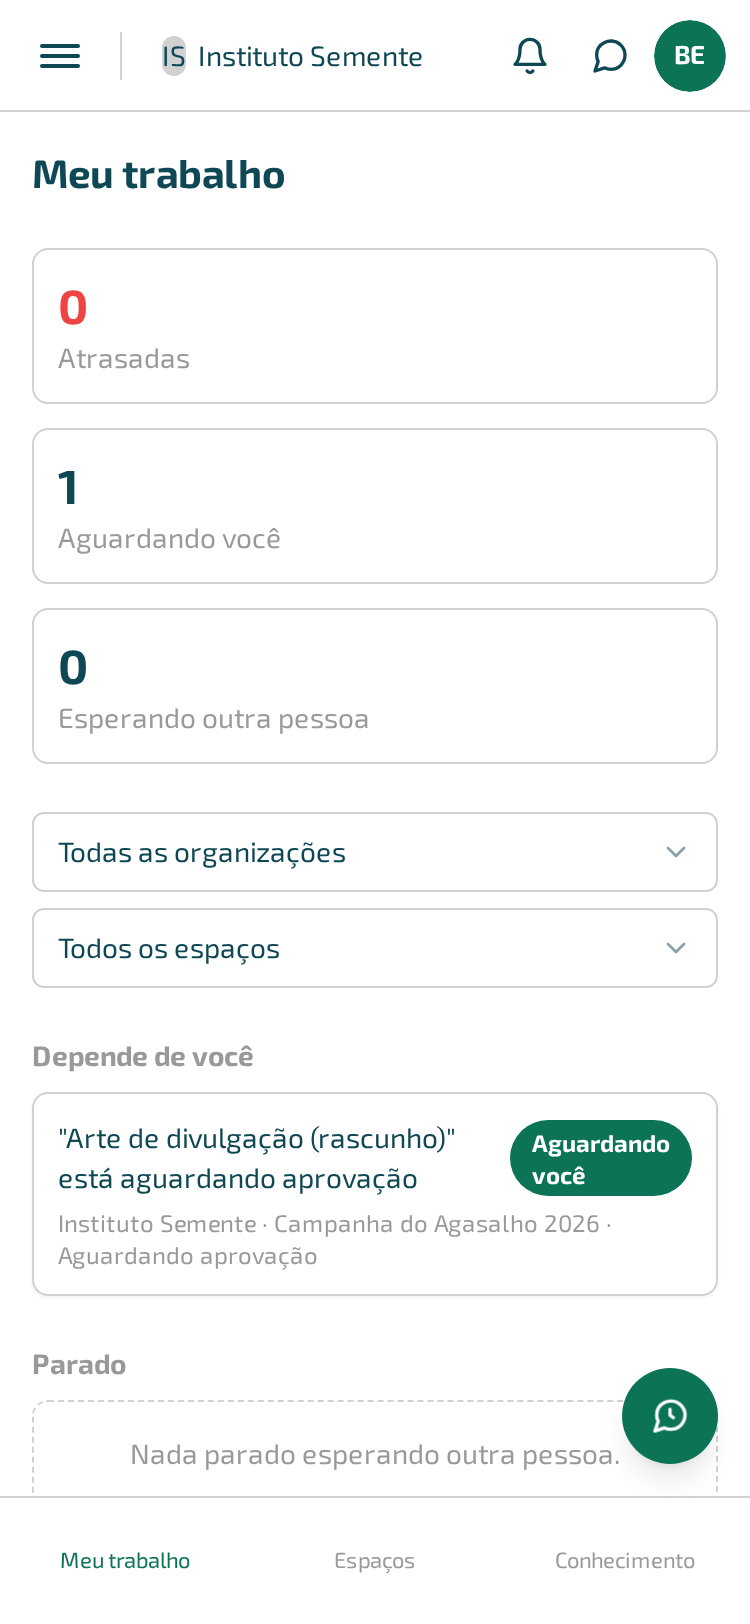
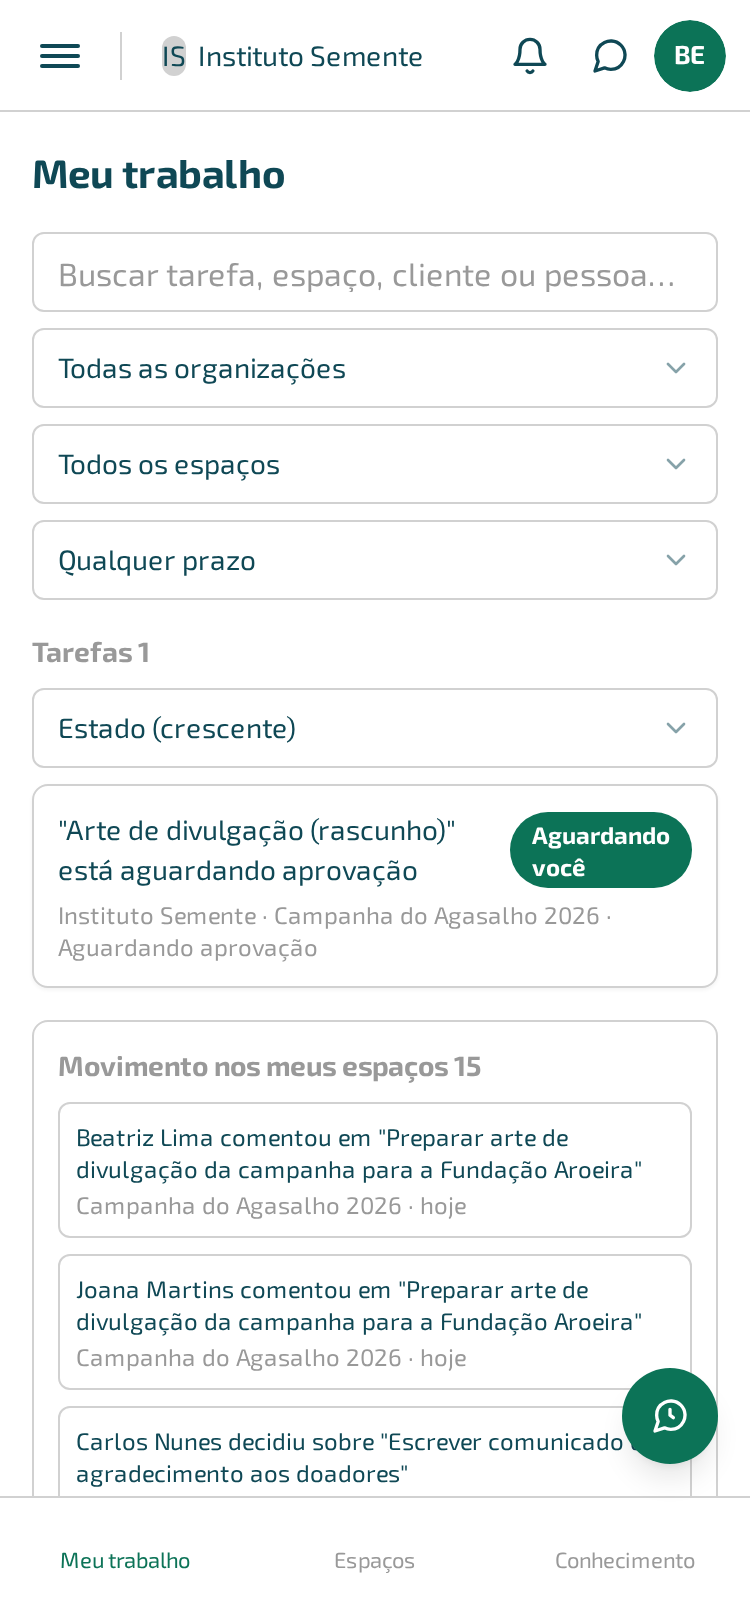
docs(manual): capturas da 0.16.0, com a busca de Meu trabalho

diff --git a/trabalho/meu-trabalho.md b/trabalho/meu-trabalho.md
@@ -16,7 +16,12 @@ outra organização é que o Realiza troca para ela.
 
 No menu, é a tela que abre com o título **"Meu trabalho"**.
 
-<!-- CAPTURA: rota=/painel | o-que-mostrar=no desktop, tela completa com o campo de busca vazio, os três filtros ("Organização", "Espaço", "Prazo") acima da lista, a coluna "Tarefas" à esquerda com pelo menos três linhas mostrando as três tags de estado ("Atrasada", "Aguardando você", "Esperando outra pessoa"), e a coluna da direita com os três cartões "Movimento nos meus espaços", "Agenda" e "Conversas" (com "Menções" e "Últimas conversas"); no celular, a mesma tela em uma coluna só, com a lista de tarefas primeiro (em formato de cartão, não de tabela) e o começo do cartão "Movimento nos meus espaços" logo abaixo | arquivo=painel-visao-geral-desktop.png e painel-visao-geral-celular.png -->
+![Tela "Meu trabalho" com a lista de tarefas mostrando as etiquetas "Atrasada", "Aguardando você" e "Esperando outra pessoa", e à direita os cartões "Movimento nos meus espaços", "Agenda" e "Conversas"](/assets/capturas/painel-visao-geral-desktop.png)
+{: .mt-4 }
+
+A mesma tela no celular, com a lista de tarefas primeiro:
+
+![Tela "Meu trabalho" no celular, em uma coluna só, com a lista de tarefas primeiro e os cartões de contexto logo abaixo](/assets/capturas/painel-visao-geral-celular.png){: style="max-width:375px" }
 
 ## Por que isto importa
 
@@ -99,6 +104,13 @@ Traz as colunas **"Tipo"**, **"Nome"**, **"Espaço"** e **"Organização"**, com
 página do espaço ou lista de espaços daquele cliente.
 
 Sem nenhum resultado, o cartão mostra: `Nada encontrado para "<termo digitado>".`
+
+![Cartão "Resultados da busca" com o termo "Aroeira" digitado, mostrando uma tarefa e um cliente encontrados](/assets/capturas/painel-busca-desktop.png)
+{: .mt-4 }
+
+A mesma tela no celular:
+
+![Cartão "Resultados da busca" no celular, com o termo "Aroeira" digitado](/assets/capturas/painel-busca-celular.png){: style="max-width:375px" }
 
 ## Movimento, agenda e conversas
 
@@ -188,4 +200,9 @@ conversa interna da equipe não aparece para ela em lugar nenhum do painel. Vale
 **"Menções"**: só aparecem ali as vezes em que alguém a citou na conversa compartilhada — ninguém
 consegue mencioná-la na conversa interna, porque ela não alcança essa aba.
 
-<!-- CAPTURA: rota=/painel | o-que-mostrar=painel de uma pessoa convidada de fora, restrito ao espaço "Campanha do Agasalho 2026" — busca vazia, filtro de "Organização" já travado numa única organização, lista de tarefas e cartões de contexto mostrando só itens desse espaço | arquivo=painel-convidado-desktop.png e painel-convidado-celular.png -->
+![Painel de Beatriz Lima, convidada de fora, mostrando só a tarefa e os cartões de contexto do espaço "Campanha do Agasalho 2026"](/assets/capturas/painel-convidado-desktop.png)
+{: .mt-4 }
+
+A mesma tela no celular:
+
+![Painel de Beatriz Lima no celular, restrito ao espaço "Campanha do Agasalho 2026"](/assets/capturas/painel-convidado-celular.png){: style="max-width:375px" }
